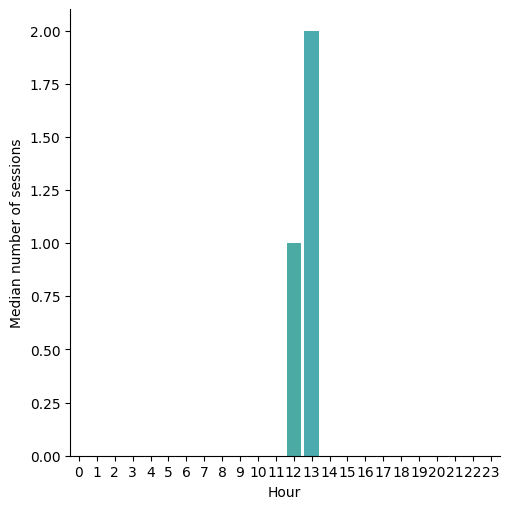
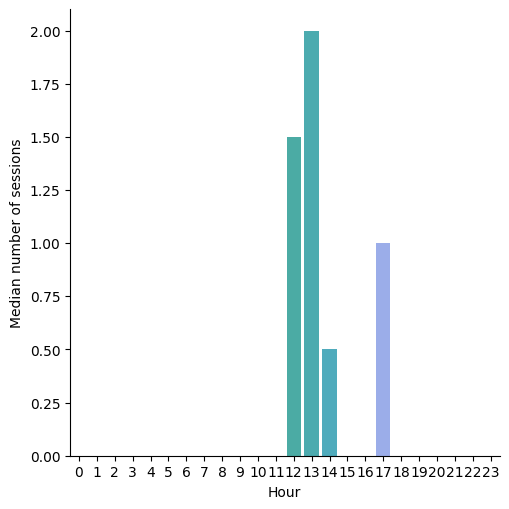
"Stats generated 2021-10-01"

Changed region(s): [[0.6189, 0.6778, 0.6778, 0.9136], [0.7367, 0.4715, 0.7662, 0.9136], [0.5599, 0.2652, 0.5894, 0.501]]

diff --git a/all/2021/9/days/30/index.html b/all/2021/9/days/30/index.html
@@ -1,0 +1,29 @@
+<!DOCTYPE html>
+<html>
+  <head>
+    <meta charset="utf-8"/>
+    <title>30 September 2021</title>
+    <link rel="stylesheet" href="../../../../../styles.css"/>
+  </head>
+  <body>
+    <div id="container">
+      <nav>
+        <ul>
+          
+            <li><a href="../../">September 2021</a></li>
+            <li class="separator"></li>
+          
+          
+        </ul>
+      </nav>
+      <main>
+        <h1>30 September 2021</h1>
+        
+          <h2>Number of sessions per hour</h2>
+          <img src="sessions.png" alt="Number of sessions per hour"/>
+        
+        
+      </main>
+    </div>
+  </body>
+</html>

diff --git a/all/2021/index.html b/all/2021/index.html
@@ -129,9 +129,9 @@
                   
                     <td>9.0</td>
                   
-                    <td>26.0</td>
+                    <td>31.0</td>
                   
-                    <td>9.546404958333333</td>
+                    <td>20.13709785</td>
                   
                 </tr>
               

diff --git a/all/2021/9/index.html b/all/2021/9/index.html
@@ -70,6 +70,10 @@
               <li><a href="days/29/">29</a></li>
             
           
+            
+              <li><a href="days/30/">30</a></li>
+            
+          
         </ul>
       </nav>
       <main>
